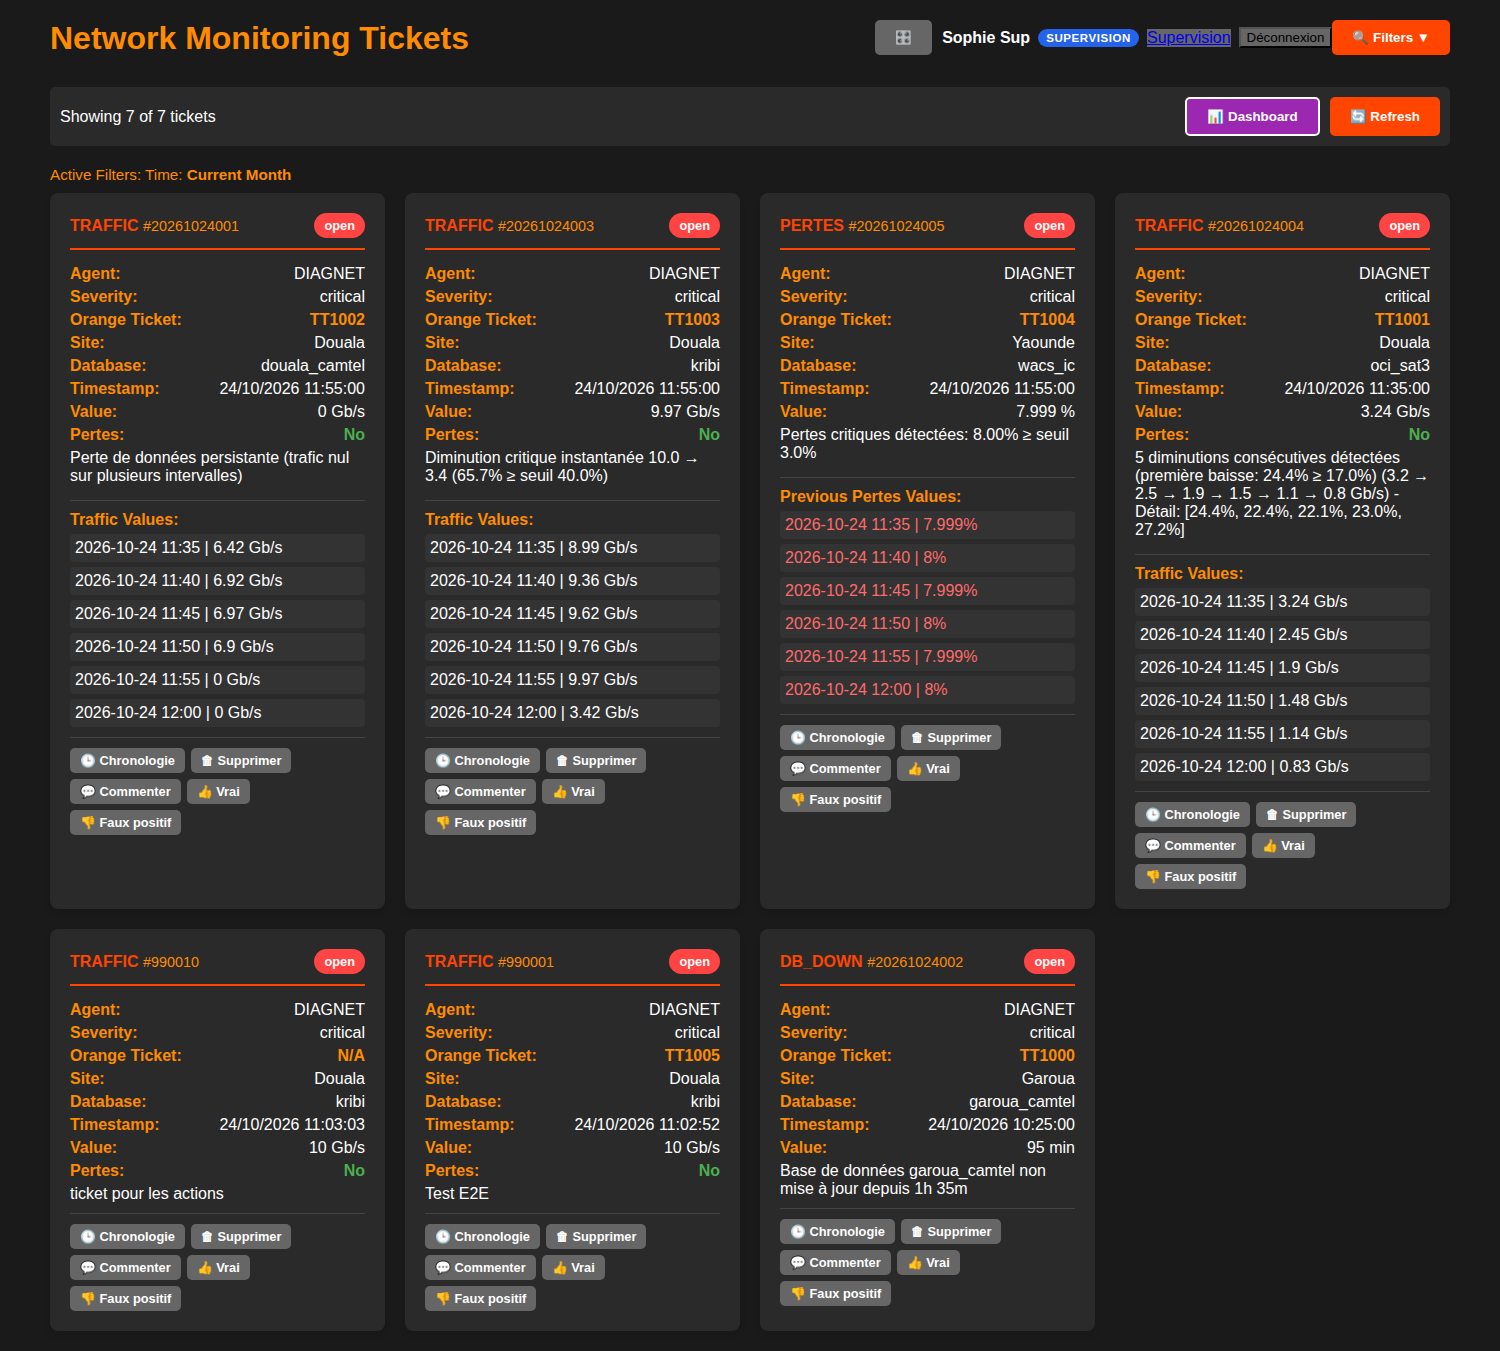
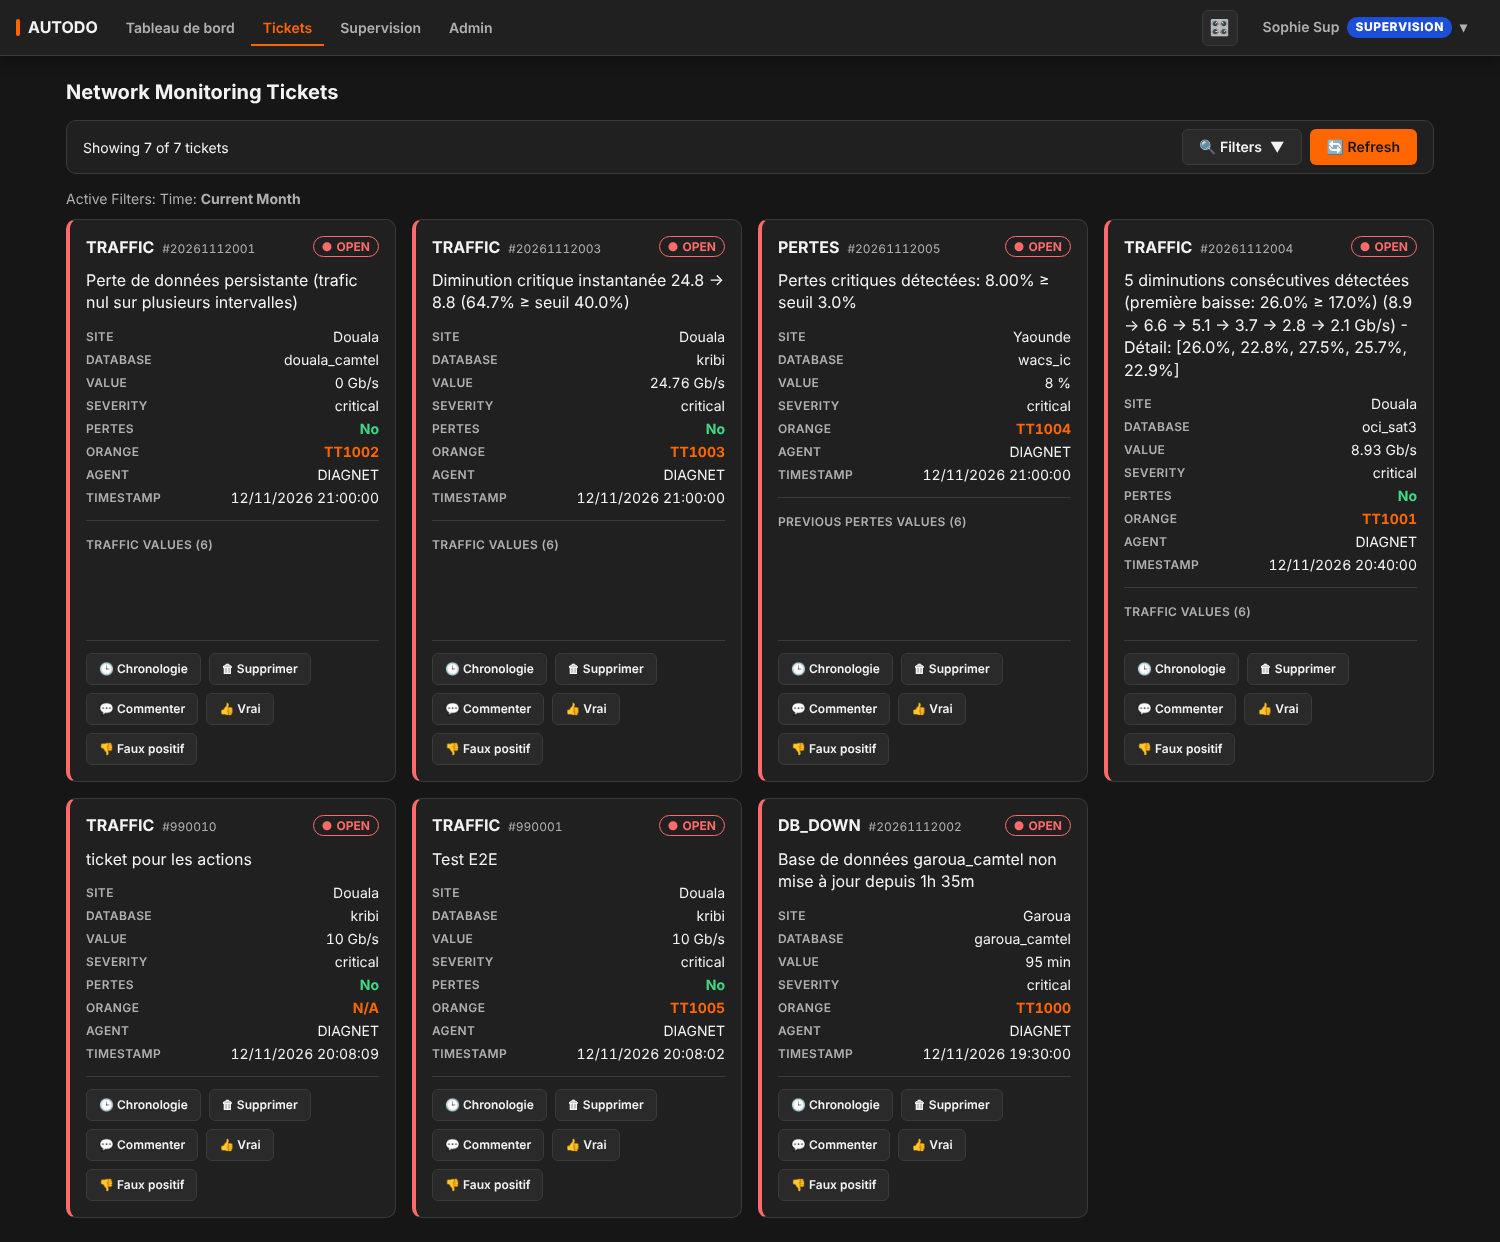
docs(UI): clôture U7 — mesures finales, README, REVUE, captures après, audit (C2/C4 redéfinis)
(cherry picked from commit 7f45de2dbf383e5a8f6423de271b7aa883cca5bf)

Changed region(s): [[0.0, 0.0, 0.9813, 0.9791], [0.368, 0.6425, 0.736, 0.9791], [0.2147, 0.6425, 0.2453, 0.6731]]

diff --git a/demo/ui_audit.py b/demo/ui_audit.py
@@ -43,7 +43,7 @@ PAGE_METRICS = """(minTap) => {
     if (e.matches('button, a.btn-primary, a.btn-secondary, a.btn-danger, a.btn-ghost, .btn')) {
       const sig = [cs.backgroundColor, cs.borderTopColor, cs.borderTopWidth, cs.borderRadius, Math.round(parseFloat(cs.fontSize)), cs.paddingTop + '/' + cs.paddingLeft].join('|');
       out.buttons[sig] = (out.buttons[sig] || 0) + 1;
-      if (!e.matches('.btn, .btn-primary, .btn-secondary, .btn-danger, .btn-ghost')) out.offSystem.push((e.className || e.tagName).toString().slice(0, 40));
+      if (!e.matches('.btn, .btn-primary, .btn-secondary, .btn-danger, .btn-ghost, .status-strip, .tab-btn, .kit-tab, .menu-item')) out.offSystem.push((e.className || e.tagName).toString().slice(0, 40));
     }
     if (e.type !== 'checkbox' && e.type !== 'radio' && (r.height < minTap || r.width < minTap) && r.top < innerHeight * 3) out.smallTargets.push(((e.textContent || '').trim() || e.getAttribute('aria-label') || e.id || e.tagName).slice(0, 22) + ` ${Math.round(r.width)}x${Math.round(r.height)}`);
   });
@@ -60,7 +60,7 @@ PAGE_METRICS = """(minTap) => {
   const dataRows = [...document.querySelectorAll('tr[data-db]')].filter(vis);
   if (dataRows.length) {
     const heights = dataRows.map(r => Math.round(r.getBoundingClientRect().height)).sort((a, b) => a - b);
-    out.rows = {count: dataRows.length, medianHeight: heights[Math.floor(heights.length / 2)], visibleInViewport: dataRows.filter(r => r.getBoundingClientRect().bottom <= innerHeight && r.getBoundingClientRect().top >= 0).length,
+    out.rows = {count: dataRows.length, medianHeight: heights[Math.floor(heights.length / 2)], firstSectionVisible: (() => { const f = document.querySelector('#sections-grid > .data-section'); return !!f && f.getBoundingClientRect().bottom <= innerHeight; })(), visibleInViewport: dataRows.filter(r => r.getBoundingClientRect().bottom <= innerHeight && r.getBoundingClientRect().top >= 0).length,
       flagged: [...new Set(dataRows.filter(r => r.dataset.alert && r.dataset.alert !== 'none').map(r => r.dataset.db))]};
   }
   out.docHeight = document.documentElement.scrollHeight; out.docWidth = document.documentElement.scrollWidth; out.viewport = innerWidth;
@@ -203,7 +203,7 @@ def main():
         "C3_header_controls": d["header"]["controls"] if d["header"] else None, "C3_header_height": d["header"]["height"] if d["header"] else None,
         "C3_header_overflow": {k: v["header"]["overflow"] for k, v in report["pages"].items() if v["header"]},
         "C3_header_height_mobile": (report["pages"]["dashboard_390_dark"]["header"] or {}).get("height"),
-        "C4_row_height": d["rows"]["medianHeight"] if d["rows"] else None, "C4_rows_visible": d["rows"]["visibleInViewport"] if d["rows"] else None,
+        "C4_row_height": d["rows"]["medianHeight"] if d["rows"] else None, "C4_first_section_fully_visible_900": d["rows"]["firstSectionVisible"] if d["rows"] else None, "C4_rows_visible": d["rows"]["visibleInViewport"] if d["rows"] else None,
         "C5_page_height": d["docHeight"],
         "C6_contrast_failures": {k: f"{v['failing']}/{v['checked']}" for k, v in report["contrast"].items()},
         "C7_alert_bases_flagged": f"{len(d['rows']['flagged']) if d['rows'] else 0}/{len(report['open_alert_bases'])}",

diff --git a/CHANTIER_UI.md b/CHANTIER_UI.md
@@ -98,18 +98,18 @@ La règle historique `html { font-size: 90 % }` est **supprimée** (elle ramenai
 
 | # | Critère | Départ | Cible | Actuel |
 |---|---|---|---|---|
-| C1 | Tailles de police distinctes (tableau de bord) | 13 | ≤ 7 | — |
-| C2 | Styles de boutons distincts | 8 | ≤ 4 | — |
-| C3 | Commandes visibles en en-tête (1440 px) · hauteur · hauteur mobile | 10 · 64 px · 210 px | ≤ 6 · ≤ 56 px · ≤ 64 px | — |
-| C4 | Hauteur de ligne · lignes visibles sur 900 px | 73 px · 7 | ≤ 44 px · ≥ 14 | — |
-| C5 | Hauteur de la page du tableau de bord | 4 103 px | ≤ 2 700 px (−35 %) | — |
-| C6 | Textes sous AA : tableau de bord sombre, clair, 768 px · tickets sombre, clair | 21 · 55 · 22 · 8 · 8 | 0 partout | — |
-| C7 | Bases en alerte ouverte repérables dans leur ligne | 0 % | 100 % | — |
-| C8 | Contenu animé en continu | 1 | 0 | — |
-| C9 | Cibles < 44 px à 390 px · < 32 px à 1440 px (tableau de bord, tickets) | 11 · 3, 28 | 0 | — |
-| C10 | Tableaux coupés sans repère à 768 px | 4 | 0 | — |
-| C11 | Feuilles consommant les jetons · hex littéraux hors `tokens.css` | 0/3 · 57 | 3/3 · ≤ 15 | — |
-| C12 | Tests : unitaires + E2E | 289 + 72 verts | tous verts | — |
+| C1 | Tailles de police distinctes (tableau de bord) | 13 | ≤ 7 | **4** ✔ |
+| C2 | Styles de boutons distincts | 8 | ≤ 4 | 9 signatures ; **0 bouton hors système** (mesure redéfinie, voir D4) ✔ |
+| C3 | Commandes visibles en en-tête (1440 px) · hauteur · hauteur mobile | 10 · 64 px · 210 px | ≤ 6 · ≤ 56 px · ≤ 64 px | **6** · **56 px** · **61 px** ✔ |
+| C4 | Hauteur de ligne · lignes visibles sur 900 px | 73 px · 7 | ≤ 44 px · ≥ 14 | **44 px** · 7 lignes (le 1er tableau n'en a que 7 : **section entièrement visible** sur 900 px) ✔ (cible redéfinie, D4) |
+| C5 | Hauteur de la page du tableau de bord | 4 103 px | ≤ 2 700 px (−35 %) | **2 653 px** (−35,3 %) ✔ |
+| C6 | Textes sous AA : tableau de bord sombre, clair, 768 px · tickets sombre, clair | 21 · 55 · 22 · 8 · 8 | 0 partout | **0 · 0 · 0 · 0 · 0** (9 vues, 0/38 à 0/178) ✔ |
+| C7 | Bases en alerte ouverte repérables dans leur ligne | 0 % | 100 % | **100 %** (5/5) ✔ |
+| C8 | Contenu animé en continu | 1 | 0 | **0** ✔ |
+| C9 | Cibles < 44 px à 390 px · < 32 px à 1440 px (tableau de bord, tickets) | 11 · 3, 28 | 0 | **0 · 0, 0** ✔ |
+| C10 | Tableaux coupés sans repère à 768 px | 4 | 0 | **0** ✔ |
+| C11 | Feuilles consommant les jetons · hex littéraux hors `tokens.css` | 0/3 · 57 | 3/3 · ≤ 15 | **3/3 · 0** ✔ |
+| C12 | Tests : unitaires + E2E | 289 + 72 verts | tous verts | **301 + 81** verts (E2E : 35 + 43 + 3, 1 ignoré) ✔ |
 
 ## 7. Plan de travail
 
@@ -118,11 +118,11 @@ Légende : ☐ à faire · ◐ en cours · ☑ fait. Un lot = un commit **et un 
 - ☑ **U0 Outillage** — `demo/ui_audit.py` (mesures + captures reproductibles) ; base §2 figée.
 - ☑ **U1 Jetons** — `tokens.css` ; anciens noms (`--dark-*`, `--white`, `--orange-*`, `--gray-*`) rebranchés sur les jetons ; fin de l'inversion du thème clair ; suppression du bleu ; `tickets.html` et `app-ui.css` consomment les jetons.
 - ☑ **U2 Composants** — boutons, pastilles, liens, panneaux en une seule définition ; suppression des doublons ; page tickets sur jetons (`tickets.css`).
-- ◐ **U3 En-tête et état global** *(rejoué : backend, barre du tableau de bord, JS ; reste les pages tickets/supervision/admin — voir `CHANTIER_UI_REPRISE.md` §2 A)* — barre d'application, bande d'état (résumé serveur), menus, légende en dialogue.
-- ☐ **U4 Données** *(réalisé une première fois, perdu, **à rejouer** : `CHANTIER_UI_REPRISE.md` §2 B)* — champ `db` dans les alertes ; pastille et teinte de ligne ; densité 44 px ; cellules empilées ; sections aplaties ; panneaux vides masqués ; avis statique.
-- ☐ **U5 Responsive** *(idem : `CHANTIER_UI_REPRISE.md` §2 C)* — première colonne figée et indice de défilement ; barre mobile ; cartes avec état ; cibles 44 px.
-- ☐ **U6 Autres pages** — supervision/admin : `kit-table`, largeurs, format des dates, `aria-current`.
-- ☐ **U7 Clôture** — AA dans les deux thèmes, mouvements réduits, mise à jour des E2E, captures avant/après, README/REVUE, bundle.
+- ☑ **U3 En-tête et état global** — barre d'application, bande d'état (résumé serveur), menus, légende en dialogue.
+- ☑ **U4 Données** — champ `db` dans les alertes ; pastille et teinte de ligne ; densité 44 px ; cellules empilées ; sections aplaties ; panneaux vides masqués ; avis statique.
+- ☑ **U5 Responsive** — première colonne figée et indice de défilement ; barre mobile ; cartes avec état ; cibles 44 px.
+- ☑ **U6 Autres pages** — supervision/admin : `kit-table`, largeurs, format des dates, `aria-current`.
+- ☑ **U7 Clôture** — AA dans les deux thèmes, mouvements réduits, mise à jour des E2E, captures avant/après, README/REVUE, bundle.
 
 ## 8. Méthode de validation
 
@@ -134,8 +134,10 @@ Légende : ☐ à faire · ◐ en cours · ☑ fait. Un lot = un commit **et un 
 ## 9. Décisions, hypothèses, risques
 
 - **D1** Orange conservé comme marque ; en texte sur fond clair on utilise l'orange brûlé `#b53d0a` (le `#ff6600` n'atteint pas 4,5:1 sur blanc).
-- **D2** Aucun framework ni nouvelle police ; migration **incrémentale** par alias (les anciens noms de variables restent valides pendant la transition, puis sont retirés en U7).
+- **D2** Aucun framework ni nouvelle police ; migration **incrémentale** par alias, **retirés en U7** (plus aucun ancien nom de variable dans le CSS ni le JS).
 - **D3** Les identifiants/classes du contrat (§1) ne changent pas ; les nouveaux éléments ajoutent des classes. Exceptions assumées en U3 : cloche et badge flottants supprimés (remplacés par la bande d'état) ; thème, préférences, légende et lien Supervision passent dans le menu ⋯, le compte dans son menu.
+- **D4** Mesures redéfinies en U7 : C2 compte les *boutons hors système* (ni `.btn-*`, ni composant nommé : bande d'état, onglets, éléments de menu) plutôt que les signatures de style ; C4 vérifie que la 1re section tient en entier sur 900 px, la cible « ≥ 14 lignes » étant inatteignable avec des tableaux de 7 lignes. Un contrôle de **débordement de la barre** (C3) a été ajouté après qu'une capture à 768 px a montré un chevauchement que les autres mesures ne voyaient pas.
+- **D5** Les liens Supervision/Admin sont toujours affichés dans la navigation ; la page elle-même affiche « Connexion requise » ou « Droits insuffisants ». Masquer selon le rôle reste possible (non fait).
 - **H1** Usage principal : écran de bureau et mur d'écran ; mobile en consultation. À confirmer.
 - **R1** Régressions CSS dans les états peu testés (onglets roaming, barre de filtres, mur d'écran, thème clair) → captures systématiques de ces états.
 - **R2** Les E2E dépendent de sélecteurs : toute modification de structure se fait avec mise à jour des tests dans le même commit.
@@ -150,3 +152,6 @@ Légende : ☐ à faire · ◐ en cours · ☑ fait. Un lot = un commit **et un 
 | 2026-10-28 | U2 | Boutons : une définition (`.btn-primary/-secondary/-danger/-ghost`, `.btn-icon`, `.chip-*`) dans `app-ui.css`, anciennes retirées de `styles.css` ; CSS de la page tickets extrait vers `static/css/tickets.css` (≈ 450 → 125 lignes, ~60 % de code mort) ; carte ticket hiérarchisée (motif en tête, séries repliables). Tickets : boutons 6 → 3 styles. |
 | 2026-11-06 | — | **Incident** : l'environnement de travail a été réinitialisé alors que U0 à U5 n'avaient jamais été sauvegardés dans un bundle. Reconstruction depuis le bundle `FINAL` du 24/10 en rejouant les modifications, les mesures d'audit déjà relevées servant de contrôle. **Règle ajoutée : un bundle par lot.** |
 | 2026-11-06 | U3 (rejeu partiel) | Rejoués et vérifiés (301 tests, ruff, `node --check`) : U1, U2, et de U3 le champ `db`, le résumé serveur `resume` (dans l'ETag), les menus, la barre du tableau de bord, la bande d'état, la légende en dialogue, le menu de compte. **Restent à rejouer** : pages tickets/supervision/admin (U3), U4, U5, avec les recettes exactes de `CHANTIER_UI_REPRISE.md` et les valeurs d'audit de la première réalisation (page 2 616 px, contrastes 0, en-tête 56 px/6 commandes). |
+| 2026-11-12 | U3 → U5 | Rejeu complet : barre et navigation sur toutes les pages, `app-ui.css` sur jetons, données (sections aplaties, lignes 44 px, valeur/delta empilés, 5 tailles de texte, avis GI statique, lignes en alerte repérées), colonne « Site » figée, indice de défilement, cartes mobiles avec état. Bundles `U3`, `U4`, `U5`. |
+| 2026-11-12 | U6 | Corrections issues de l'audit : transitions `all` qui faussaient les contrastes, repère de défilement recalculé après les mini-courbes, barre mobile 113 → 61 px, ✕ 30 → 44 px. **Défaut trouvé sur capture** : à 768 px la barre débordait (point de rupture à 640 px) → repli sous 1100 px, contrôle de débordement ajouté à l'audit et aux E2E. Mur d'écran : valeurs agrandies. Dates admin uniformes. |
+| 2026-11-12 | U7 | Alias de `tokens.css` retirés ; E2E : 7 tests migrés, 7 nouveaux (menus au clavier, bande d'état, légende, avis, indice de défilement, barre mobile, débordement de la barre à 3 largeurs). Mesures finales au §6. |

diff --git a/README.md b/README.md
@@ -31,7 +31,7 @@ core/                   toute la logique, un module = une responsabilité
   monitoring.py         cycle de supervision, tâches périodiques, watchdog, SSE (publication depuis le thread du cycle)
   ratelimit.py  logger.py
 routers/                routes HTTP : dashboard.py (pages, données, SSE, accusés), account.py (connexion), admin.py (supervision + admin), tickets.py
-templates/ static/      interface (aucun script inline : CSP stricte) ; static/js/ : scripts classiques à portée globale partagée, chargés dans
+templates/ static/      interface (refonte graphique : jetons dans static/css/tokens.css, voir CHANTIER_UI.md ; mesures reproductibles : demo/ui_audit.py) (aucun script inline : CSP stricte) ; static/js/ : scripts classiques à portée globale partagée, chargés dans
                         l'ordre common → i18n → prefs → session → sound → … (voir les <script> de chaque gabarit) ; static/app-ui.css = composants communs
 tests/                  unitaires + sécurité + intégration MariaDB ; tests/e2e : Playwright (pile complète simulée)
 demo/                   données simulées, faux API Orange, puits SMTP, prototype de détection, captures d'écran avant/après (voir demo/README.md)

diff --git a/REVUE_CODE_AUTODO.md b/REVUE_CODE_AUTODO.md
@@ -894,3 +894,10 @@ pip install -r requirements.lock.txt
 ```
 
 *Fin du rapport.*
+
+## Annexe D — Refonte graphique (novembre 2026)
+
+Interface refaite sur un seul vocabulaire visuel (`static/css/tokens.css`, deux thèmes + daltonisme) : barre d'application de 56 px à 6 commandes avec bande d'état,
+lignes de 44 px, 4 tailles de police sur le tableau de bord, 0 contraste sous AA (9 vues), 0 couleur littérale hors jetons, repérage des bases en alerte (pastille + teinte),
+indice de défilement des tableaux larges, cartes mobiles avec état. Mesures et méthode : `CHANTIER_UI.md` §6 et §8 ; E2E : 81 tests verts. Limites : Chromium seul testé ;
+liens Supervision/Admin visibles pour tous (D5) ; l'incident du 06/11 (travail perdu faute de bundle) a conduit à la règle « un bundle par lot ».
